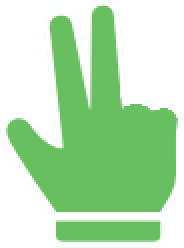
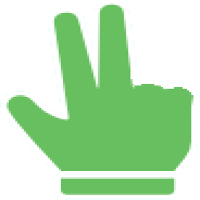
new images added with guide on sizes in readme

diff --git a/README.md b/README.md
@@ -50,3 +50,12 @@ npm start
 3. Open `coin-flip.js` and create a HTTP Get handler at path `/` that sends the necessary data to the view.
 4. Open `coin-flip.pug` and format it's content
 5. Open `app.js` at project root. Import and use `coin-flip` router.
+
+## Image size constraints
+
+### Facebook
+* Less than 8MB
+* At least 200px by 200px.
+
+### Twitter
+* Web: maximum height of 375px, maximum width of 435px
